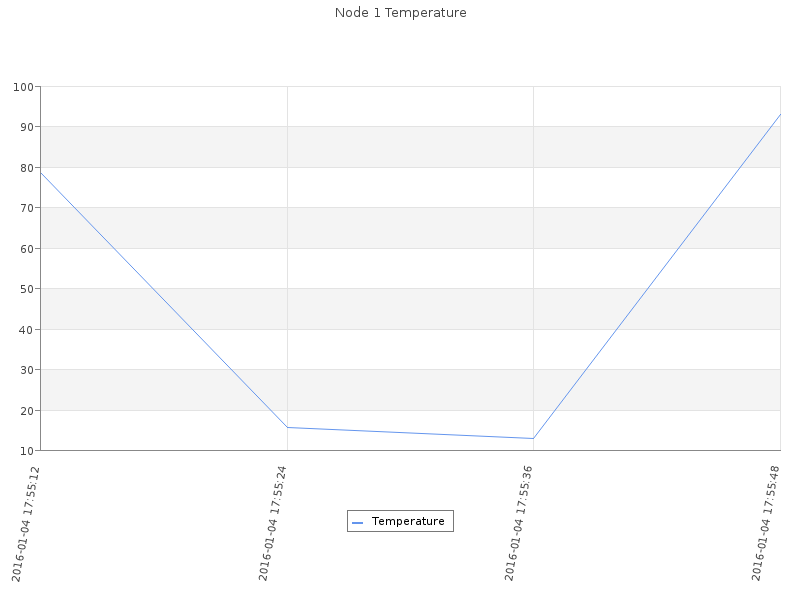
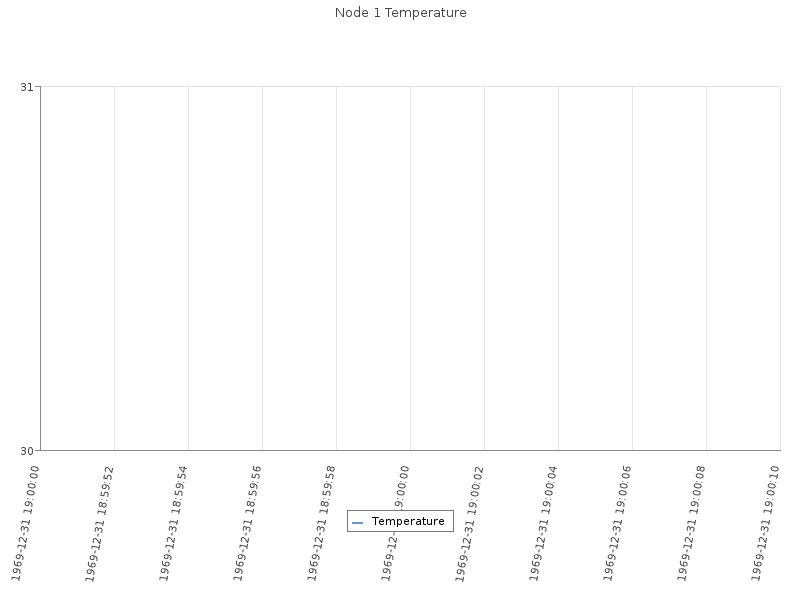
Updated to new DB structure
Removed anti-aliasing

diff --git a/db.php b/db.php
@@ -1,16 +1,34 @@
 <?php
 /*
-sensors DATABASE
-node TABLE
-	lat FLOAT(7,4)
-	long FLOAT(7,4)
-	node_id INT UNSIGNED AUTO_INCREMENT PRIMARY KEY
-data TABLE
-	dust SMALLINT UNSIGNED
-	humidity FLOAT(5,2)
-	temperature FLOAT(5,2)
-	timestamp TIMESTAMP PRIMARY KEY
-	node_id INT UNSIGNED
+CREATE DATABASE sensors;
+USE sensors;
+
+CREATE TABLE nodes(
+    latitude       DECIMAL(7,4) NOT NULL,
+    longitude      DECIMAL(7,4) NOT NULL,
+    mac_addr       TEXT NOT NULL,
+    ip_addr        TEXT NOT NULL,
+    node_id        INT UNSIGNED AUTO_INCREMENT PRIMARY KEY);
+
+CREATE TABLE data(
+    dust         SMALLINT UNSIGNED NOT NULL,
+    temperature  DECIMAL(5,2) NOT NULL,
+    humidity     DECIMAL(5,2) NOT NULL,
+    t_collected  DATETIME NOT NULL,
+    t_received   DATETIME NOT NULL,
+    node_id      SMALLINT UNSIGNED NOT NULL,
+    event_id     BIGINT UNSIGNED AUTO_INCREMENT PRIMARY KEY);
+
+CREATE TABLE monitor(
+    dust         SMALLINT UNSIGNED NOT NULL,
+    temperature  DECIMAL(5,2) NOT NULL,
+    humidity     DECIMAL(5,2) NOT NULL,
+    t_collected  DATETIME NOT NULL,
+    t_received   DATETIME NOT NULL,
+    node_id      SMALLINT UNSIGNED NOT NULL,
+    event_id     BIGINT UNSIGNED AUTO_INCREMENT PRIMARY KEY,
+    action       SMALLINT UNSIGNED NOT NULL);
+
 */
 
 class DBManager {
@@ -51,34 +69,34 @@ class DBManager {
 			case 0:
 				break;
 			case 1: // Node
-				$query = $this->con->prepare("SELECT dust, humidity, temperature, timestamp, node_id FROM data WHERE node_id = ?");
+				$query = $this->con->prepare("SELECT dust, humidity, temperature, t_collected, node_id FROM data WHERE node_id = ?");
 				$query->bind_param("i", $search_params->node_id);
 				break;
 			case 2: // Dust
-				$query = $this->con->prepare("SELECT dust, humidity, temperature, timestamp, node_id FROM data WHERE dust BETWEEN ? and ?");
+				$query = $this->con->prepare("SELECT dust, humidity, temperature, t_collected, node_id FROM data WHERE dust BETWEEN ? and ?");
 				$query->bind_param("ii", $search_params->from_dust, $search_params->to_dust);
 				break;
 			case 3: // Dust and Node
-				$query = $this->con->prepare("SELECT dust, humidity, temperature, timestamp, node_id FROM data WHERE dust BETWEEN ? and ? AND node_id = ?");
+				$query = $this->con->prepare("SELECT dust, humidity, temperature, t_collected, node_id FROM data WHERE dust BETWEEN ? and ? AND node_id = ?");
 				$query->bind_param("iii", $search_params->from_dust, 
 					$search_params->to_dust, $search_params->node_id);
 				break;
 			case 4: // Time
-				$query = $this->con->prepare("SELECT dust, humidity, temperature, timestamp, node_id FROM data WHERE timestamp BETWEEN ? AND ?");
+				$query = $this->con->prepare("SELECT dust, humidity, temperature, t_collected, node_id FROM data WHERE t_collected BETWEEN ? AND ?");
 				$query->bind_param("ss", $search_params->from_time, $search_params->to_time);
 				break;
 			case 5: // Time and Node
-				$query = $this->con->prepare("SELECT dust, humidity, temperature, timestamp, node_id FROM data WHERE timestamp BETWEEN ? AND ? AND node_id = ?");
+				$query = $this->con->prepare("SELECT dust, humidity, temperature, t_collected, node_id FROM data WHERE t_collected BETWEEN ? AND ? AND node_id = ?");
 				$query->bind_param("ssi", $search_params->from_time, $search_params->to_time, 
 					$search_params->node_id);
 				break;
 			case 6: // Time and Dust
-				$query = $this->con->prepare("SELECT dust, humidity, temperature, timestamp, node_id FROM data WHERE timestamp BETWEEN ? AND ? AND dust BETWEEN ? and ?");
+				$query = $this->con->prepare("SELECT dust, humidity, temperature, t_collected, node_id FROM data WHERE t_collected BETWEEN ? AND ? AND dust BETWEEN ? and ?");
 				$query->bind_param("ssii", $search_params->from_time, $search_params->to_time, 
 					$search_params->from_dust, $search_params->to_dust);
 				break;
 			case 7: // Time and Dust and Node
-				$query = $this->con->prepare("SELECT dust, humidity, temperature, timestamp, node_id FROM data WHERE timestamp BETWEEN ? AND ? AND dust BETWEEN ? and ? AND node_id = ?");
+				$query = $this->con->prepare("SELECT dust, humidity, temperature, t_collected, node_id FROM data WHERE t_collected BETWEEN ? AND ? AND dust BETWEEN ? and ? AND node_id = ?");
 				$query->bind_param("ssiii", $search_params->from_time, $search_params->to_time, 
 					$search_params->from_dust, $search_params->to_dust, $search_params->node_id);
 				break;
@@ -93,7 +111,7 @@ class DBManager {
 	}
 	
 	function get_node_locs() {
-		$result = $this->con->query("SELECT node_id, lat, `long` FROM node");
+		$result = $this->con->query("SELECT node_id, latitude, longitude FROM nodes");
 		echo $this->con->error;
 		return $result;
 		

diff --git a/nodemap.php b/nodemap.php
@@ -6,11 +6,11 @@ $db = new DBManager();
 $result = $db->get_node_locs();
 
 function make_row($row) {
-	$script = "map.panTo(new L.LatLng($row[lat], $row[long]));";
+	$script = "map.panTo(new L.LatLng($row[latitude], $row[longitude]));";
 	$output = "<tr>\n";
 	$output .= sprintf("<td style='cursor: pointer' onclick='$script'>%s (click to view on map)</td>", $row["node_id"]);
-	$output .= sprintf("<td>%s</td>", $row["lat"]);
-	$output .= sprintf("<td>%s</td>", $row["long"]);
+	$output .= sprintf("<td>%s</td>", $row["latitude"]);
+	$output .= sprintf("<td>%s</td>", $row["longitude"]);
 	$output .= "</tr>\n";
 	return $output;
 }
@@ -62,8 +62,8 @@ function add_markers($lats, $longs) {
 					$longs = array();
  					if (!is_null($result) && $result != false) {
 						while ($curr_row = $result->fetch_assoc()) {
-							$lats[] = $curr_row["lat"];
-							$longs[] = $curr_row["long"];
+							$lats[] = $curr_row["latitude"];
+							$longs[] = $curr_row["longitude"];
 							echo make_row($curr_row);
 						}
 						$result->free();

diff --git a/index.php b/index.php
@@ -29,7 +29,7 @@ function make_row($row) {
 	$output .= sprintf("<td>%s</td>", $row["dust"]);
 	$output .= sprintf("<td>%s</td>", $row["humidity"]);
 	$output .= sprintf("<td>%s</td>", $row["temperature"]);
-	$output .= sprintf("<td>%s</td>", $row["timestamp"]);
+	$output .= sprintf("<td>%s</td>", $row["t_collected"]);
 	$output .= sprintf("<td>%s</td>", $row["node_id"]);
 	$output .= "</tr>\n";
 	return $output;
@@ -151,7 +151,7 @@ function make_row($row) {
 						<th>Dust</th>
 						<th>Humidity</th>
 						<th>Temperature</th>
-						<th>Timestamp</th>
+						<th>Time Collected</th>
 						<th>Node ID</th>
 					</tr>
 				</thead>

diff --git a/graph.php b/graph.php
@@ -31,11 +31,9 @@ function make_base_graph($title, $time) {
 	$graph->SetScale("datint");
 	$theme_class = new UniversalTheme;
 	$graph->SetTheme($theme_class);
-	$graph->img->SetAntiAliasing(false);
 	$graph->title->Set($title);
 	$graph->SetBox(false);
-	$graph->img->SetAntiAliasing();
-	
+	//$graph->img->SetAntiAliasing();	
 	$graph->yaxis->HideZeroLabel();
 	$graph->yaxis->HideLine(false);
 	$graph->yaxis->HideTicks(false,false);
